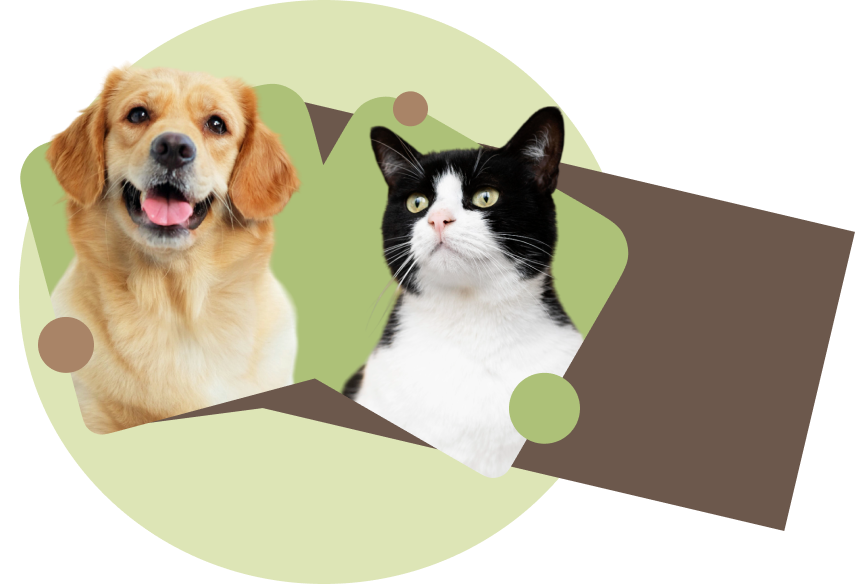
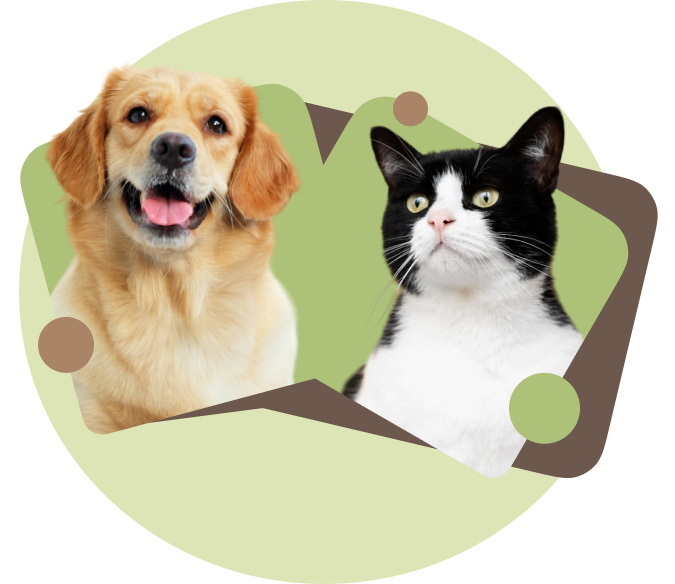
#96 (21.06.2024)
Без комментариев...

diff --git a/pages/about.html b/pages/about.html
@@ -222,7 +222,7 @@
                                         </clipPath>
                                         </defs>
                                     </svg>
-                                    <a href="#" class="additional__link additional__link--brown">“Добро без границ” | Приют для животных в г.Красноярск</a> 
+                                    <a href="https://vk.com/siberianfederal?from=search" target="_blank" class="additional__link additional__link--brown">“Добро без границ” | Приют для животных в г.Красноярск</a> 
                                     
                                 </li>
                                 <li class="additional__item">
@@ -231,7 +231,7 @@
                                         <path fill-rule="evenodd" clip-rule="evenodd" d="M8.23741 15.8879C13.0692 13.6299 16.2912 12.1413 17.9033 11.4221C22.5063 9.36862 23.4627 9.0119 24.0861 9.00013C24.2232 8.99753 24.5298 9.03398 24.7284 9.20681C24.8961 9.35275 24.9422 9.54989 24.9643 9.68826C24.9864 9.82662 25.0139 10.1418 24.992 10.3881C24.7426 13.1992 23.6633 20.0209 23.1142 23.1693C22.8818 24.5016 22.4244 24.9483 21.9815 24.992C21.0189 25.087 20.288 24.3097 19.3558 23.6542C17.897 22.6286 17.0729 21.9901 15.6569 20.9893C14.0205 19.8326 15.0813 19.1969 16.0139 18.1579C16.258 17.886 20.4988 13.7486 20.5809 13.3733C20.5912 13.3264 20.6007 13.1514 20.5038 13.059C20.4069 12.9666 20.2639 12.9982 20.1606 13.0233C20.0143 13.059 17.6839 14.7111 13.1694 17.9797C12.5079 18.4669 11.9087 18.7043 11.3719 18.6919C10.7801 18.6781 9.64175 18.333 8.79548 18.0379C7.75749 17.676 6.93252 17.4847 7.00436 16.87C7.04178 16.5499 7.45279 16.2225 8.23741 15.8879Z" fill="white"/>
                                     </svg>
                                         
-                                    <a href="#" class="additional__link additional__link--brown">“Добро без границ” | Новости и жизнь приюта</a> 
+                                    <a href="https://t.me/SibFUofficial" target="_blank" class="additional__link additional__link--brown">“Добро без границ” | Новости и жизнь приюта</a> 
                                     
                                 </li>
                             </ul>
@@ -246,7 +246,7 @@
                     <div class="help__text">
                         <h2 class="help__title">Помощь приюту</h2>
                         <p class="help__description">Любой желающий может помочь приюту разными способами! Вы можете пожертвовать любую сумму на нужды приюта, забрать пушистого друга, или совершить покупку в магазине неашего приюта, если у вас уже есть питомец. </p>
-                        <a href="https://t.me/hAmster_kombat_bot/start?startapp=kentId1180407115" target="_blank" class="button button--help">Пожертвование</a>
+                        <a href="#" target="_blank" class="button button--help">Пожертвование</a>
                         <a href="./pet.html" class="button button--help">Выбор питомца</a>
                         <a href="./shop.html" class="button button--help">Магазин</a>
                     </div>

diff --git a/pages/empty-cart.html b/pages/empty-cart.html
@@ -116,7 +116,8 @@
                         </ul>
                       </div>
                       <div class="cart__grid-total">
-                        <span id="hintMessage" class="cart__grid-hint--message visually-hidden">На сайте вы можете забронировать товар, а после получить и оплатить его удобными вам способами в нашем приюте.</span>
+                        <span id="hintMessage" class="cart__grid-hint--message visually-hidden">На сайте вы можете забронировать товар, а после получить и оплатить его удобными вам способами в нашем приюте. <br>
+                          Укажите свою электронную почту, вам будет выслан специальный код для получения товара.</span>
                         <p class="cart__grid-place">Забрать товары можно в нашем приюте:</p>
                         <p class="cart__grid-address">г. Красноярск, Улица Пушкина 4</p>
                         <div class="cart__grid-info__price">
@@ -133,8 +134,11 @@
                           <p class="cart__grid-sum__title">Итого</p>
                           <p class="cart__grid-sum__value">??? руб.</p>
                         </div>
-                        <div class="cart__grid-book visually-hidden">
-                          <button class="button cart__grid-book__add">Забронировать</button>
+                        <form class="cart__grid-contact" id="cartForm">
+                          <label class="cart__grid-contact__heading">Укажите свою эл. почту
+                          <input type="email" name="cartFormEmail" id="cartFormEmail" required placeholder="example@mail.com">
+                          </label>
+                          <button type="submit" class="button cart__grid-book__add">Забронировать</button>
                           <dialog class="cart__modal cart-modal" id="cartModal">
                             <h4 class="cart-modal__title">Товары забронированы</h4>
                             <p class="cart-modal__subtitle">Вы можете забрать товары в нашем приюте и оплатить при получении удобными вам способами.
@@ -143,6 +147,10 @@
                               Отлично
                             </button>
                           </dialog>
+                        </form>
+                        <div class="cart__grid-book visually-hidden">
+                          
+                          
                           <button class="cart__grid-book__hint"><svg width="34" height="34" viewBox="0 0 34 34" fill="none" xmlns="http://www.w3.org/2000/svg">
                             <path d="M17.0087 15.3415L16.9921 23.675M17.0087 10.3417L16.9921 10.3417M32 16.9999C32 25.2842 25.2843 31.9999 17 31.9999C8.71573 31.9999 2 25.2842 2 16.9999C2 8.71564 8.71573 1.99991 17 1.99991C25.2843 1.99991 32 8.71564 32 16.9999Z" stroke="#A98467" stroke-width="3" stroke-linecap="round" stroke-linejoin="round"/>
                             </svg>

diff --git a/css/blocks/page.css b/css/blocks/page.css
@@ -17,15 +17,12 @@
   background: url('./../../img/cart/bg/bg_assets-desktop.svg') no-repeat bottom -122px right calc(50% - 770px),
                 url('./../../img/cart/bg/ellipse-desktop.svg') no-repeat top 318px left calc(50% - 685px);
 }
-#food{
-  background: url('./../../img/shop/food/bg/rectangle-brown.svg') no-repeat bottom 172px left calc(50% - 621px);
-}
 #pet{
   background: url('./../../img/pet/bg/ellipse-bg-brown.svg') no-repeat top 1024px left calc(50% - 901px) / 821px 821px;
 }
 .page__body--shop{
   background: url('./../../img/shop/food/bg/ellipse-brown.svg') no-repeat top 213px right calc(50% - 637px) / 504px 504px,
-                url('./../../img/shop/food/bg/ellipse-green.svg') no-repeat bottom 395px left calc(50% - 574px) / 617px 617px,
+                url('./../../img/shop/food/bg/ellipse-green.svg') no-repeat top 643px left calc(50% - 574px) / 617px 617px,
                 url('./../../img/shop/food/bg/rectangle-brown.svg') no-repeat bottom -220px left calc(50% - 621px);
 }
 
@@ -44,8 +41,10 @@
   #pet{
     background: url('./../../img/pet/bg/ellipse-bg-brown.svg') no-repeat top 673px left calc(50% - 451px) / 457px 457px;
   }
-  #food{
-    background: url('./../../img/shop/food/bg/rectangle-brown.svg') no-repeat bottom -105px left calc(50% - 333px) / 156px 134px;
+  .page__body--shop{
+    background: url('./../../img/shop/food/bg/ellipse-brown.svg') no-repeat top 170px right calc(50% - 365px) / 252px 252px,
+                url('./../../img/shop/food/bg/ellipse-green.svg') no-repeat top 460px left calc(50% - 318px) / 308px 308px,
+                  url('./../../img/shop/food/bg/rectangle-brown.svg') no-repeat bottom -220px left calc(50% - 621px);
   }
 }
 /* ============================================================================================================== */
@@ -60,7 +59,9 @@
   .page__body{
     grid-template-rows: max-content auto max-content;
   }
-  #page__body-shop{
-    background: url('./../../img/shop/bg/ellipse-green.svg') no-repeat top 1185px left calc(50% - 171px) / 266px 266px;
+  .page__body--shop{
+    background: url('./../../img/shop/food/bg/ellipse-brown.svg') no-repeat top 85px right calc(50% - 205px) / 267px 267px,
+                    url('./../../img/shop/food/bg/ellipse-green.svg') no-repeat bottom 213px left calc(50%) / 226px 226px,
+                    url('./../../img/shop/food/bg/rectangle-brown.svg') no-repeat bottom -220px left calc(50% - 621px);
   }
 }

diff --git a/css/blocks/page-main.css b/css/blocks/page-main.css
@@ -70,10 +70,6 @@
     .page-main--pet{
         background: url('./../../img/pet/bg/rectangle-bg-green.svg') no-repeat top 31px left calc(50% - 486px) / 361px 359px;
     }
-    .page-main__food{
-        background: url('./../../img/shop/food/bg/ellipse-brown.svg') no-repeat top 113px right calc(50% - 365px) / 252px 252px,
-                    url('./../../img/shop/food/bg/ellipse-green.svg') no-repeat bottom 213px left calc(50% - 318px) / 308px 308px;
-    }
 }
 
 /* ============================================================================================================== */
@@ -94,10 +90,6 @@
     .page-main--pet{
         padding-bottom: 15px;
     }
-    .page-main__food{
-        padding-bottom: 15px;
-        background: none;
-    }
     .page-main__form{
         padding: 15px 0 20px 0;
         background: url('./../../img/form/bg/form-bg-320.png') no-repeat top 264px right 50%;
@@ -112,9 +104,5 @@
     }
     .page-main--pet{
         background: url('./../../img/pet/bg/rectangle-bg-green.svg') no-repeat top 15px left calc(50% - 183px) / 131px 131px;
-    }
-    .page-main__food{
-        background: url('./../../img/shop/food/bg/ellipse-brown.svg') no-repeat top 85px right calc(50% - 205px) / 267px 267px,
-                    url('./../../img/shop/food/bg/ellipse-green.svg') no-repeat bottom 7px left calc(50%) / 226px 226px;
     }
 }

diff --git a/js/cartModal.js b/js/cartModal.js
@@ -3,15 +3,17 @@ let cartDialog = document.querySelector('.cart__modal');
 let cartInputForm = document.querySelectorAll('input');
 
 
-
-cartDialogOpener.addEventListener("click", openModalAndLockScroll)
-cartDialog.addEventListener("close", returnScroll)
-
-function openModalAndLockScroll() {
-  cartDialog.showModal()
-  document.body.classList.add("scroll-lock")
+if (cartInputForm.checkValidity === true){
+  
+  cartDialogOpener.addEventListener("click", openModalAndLockScroll);
+  cartDialog.addEventListener("close", returnScroll);
+  function openModalAndLockScroll() {
+    cartDialog.showModal();
+    document.body.classList.add("scroll-lock");
+  }
+  
+  function returnScroll() {
+    document.body.classList.remove("scroll-lock")
+  }
 }
 
-function returnScroll() {
-  document.body.classList.remove("scroll-lock")
-}

diff --git a/css/blocks/help.css b/css/blocks/help.css
@@ -1,7 +1,7 @@
 .help {
     margin-bottom: 100px;
     padding: 0 20px;
-    background: url('./../../img/about/bg/bg-3.png') no-repeat top 24px right calc(50% - 408px) / 855px 584px;
+    background: url('./../../img/about/bg/bg-3.png') no-repeat top 24px right calc(50% - 408px) / 674px 584px;
     
 }
 .help__container {
@@ -46,7 +46,7 @@ line-height: 120%;
 @media(max-width: 1300px){
   .help{
     margin-bottom: 50px;
-    background-size: 506px 346px;
+    background-size: 400px 346px;
     background-position: top 0px right calc(50% - 240px);
   }
   .help__content{

diff --git a/pages/care.html b/pages/care.html
@@ -8,7 +8,7 @@
     <title>Уход за животными</title>
     <script defer src="./../js/care.js" type="module"></script>
   </head>
-  <body class="page__body page__body--shop" id="care">
+  <body class="page__body page__body--shop">
     <header
       id="shop"
       class="page__header page-header page-header--no-decor page-header__shop"

diff --git a/css/blocks/additional.css b/css/blocks/additional.css
@@ -132,7 +132,7 @@
 @media(max-width: 767px){
   .additional{
     margin: 0;
-    background: url('./../../img/about/bg/bg-3.png') no-repeat top 313px right calc(50% - 42px) / 393px 269px;
+    background: url('./../../img/about/bg/bg-3.png') no-repeat top 313px right calc(50%) / 309px 269px;
   }
   .additional__title{
     font-size: 24px;

diff --git a/pages/accessories.html b/pages/accessories.html
@@ -8,7 +8,7 @@
     <title>Аксессуары</title>
     <script defer src="./../js/accessories.js" type="module"></script>
   </head>
-  <body class="page__body" id="accessories">
+  <body class="page__body page__body--shop">
     <header
       id="shop"
       class="page__header page-header page-header--no-decor page-header__shop"

diff --git a/pages/toys.html b/pages/toys.html
@@ -8,7 +8,7 @@
     <title>Игрушки</title>
     <script defer src="./../js/toys.js" type="module"></script>
   </head>
-  <body class="page__body" id="toys">
+  <body class="page__body page__body--shop" >
     <header
       id="shop"
       class="page__header page-header page-header--no-decor page-header__shop"
